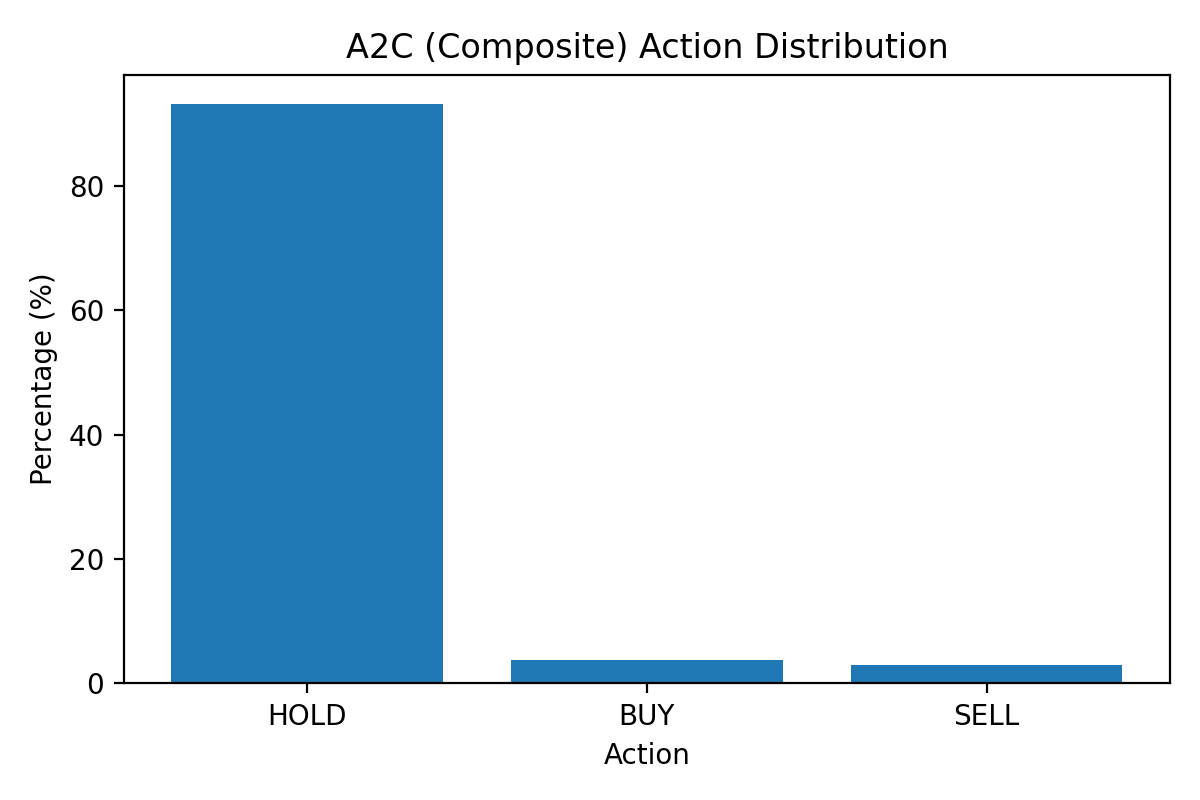
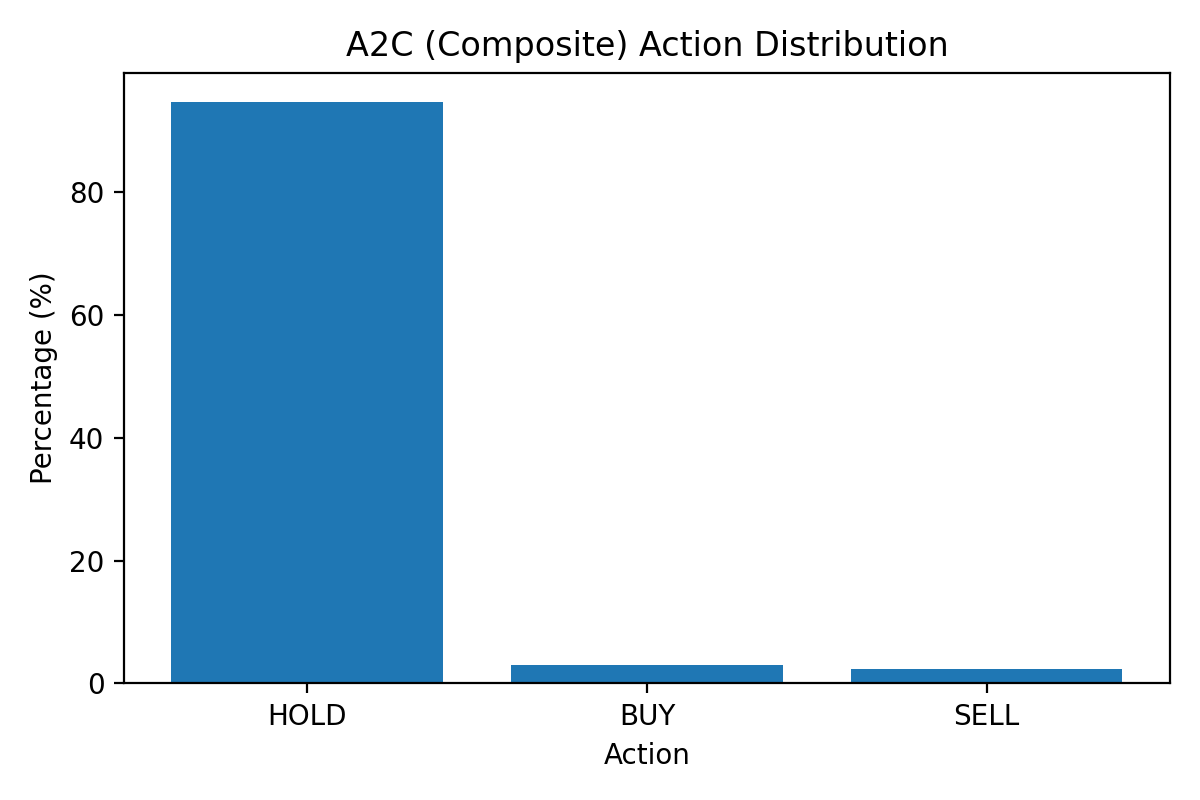
new non illegal

diff --git a/HouseRL.py b/HouseRL.py
@@ -29,6 +29,7 @@ PRICE_COL = "BenchmarkPrice"
 INITIAL_CASH = 1_000_000
 TRANSACTION_COST = 5_000
 HOLDING_COST_MONTHLY = 500
+INVALID_ACTION_PENALTY = 1.0
 
 # Q-learning
 EPISODES = 300
@@ -147,6 +148,26 @@ class HousingEnv:
         self.done = False
         return self._get_state()
 
+    def _current_price(self) -> float:
+        return float(self.df.iloc[self.idx][PRICE_COL])
+
+    def _portfolio_value(self, price: float) -> float:
+        return float(self.cash + (self.holding * price))
+
+    def _can_buy(self) -> bool:
+        return self.holding == 0 and self.cash >= self._current_price() + TRANSACTION_COST
+
+    def _can_sell(self) -> bool:
+        return self.holding == 1
+
+    def valid_actions(self):
+        actions = [2]  # HOLD always valid
+        if self._can_buy():
+            actions.append(0)
+        if self._can_sell():
+            actions.append(1)
+        return actions
+
     def _get_state(self):
         row = self.df.iloc[self.idx]
         return (
@@ -154,13 +175,9 @@ class HousingEnv:
             bucket_momentum(float(row["momentum_3"])),
             bucket_momentum(float(row["momentum_6"])),
             self.holding,
+            int(self._can_buy()),
+            int(self._can_sell()),
         )
-
-    def _current_price(self) -> float:
-        return float(self.df.iloc[self.idx][PRICE_COL])
-
-    def _portfolio_value(self, price: float) -> float:
-        return float(self.cash + (self.holding * price))
 
     def step(self, action: int):
         if self.done:
@@ -171,20 +188,20 @@ class HousingEnv:
         invalid_penalty = 0.0
 
         if action == 0:  # BUY
-            if self.holding == 0 and self.cash >= current_price + TRANSACTION_COST:
+            if self._can_buy():
                 self.cash -= (current_price + TRANSACTION_COST)
                 self.holding = 1
                 self.buy_price = current_price
             else:
-                invalid_penalty = -0.2  # ← was -2000.0
+                invalid_penalty = -INVALID_ACTION_PENALTY
 
         elif action == 1:  # SELL
-            if self.holding == 1:
+            if self._can_sell():
                 self.cash += (current_price - TRANSACTION_COST)
                 self.holding = 0
                 self.buy_price = 0.0
             else:
-                invalid_penalty = -0.2  # ← was -2000.0
+                invalid_penalty = -INVALID_ACTION_PENALTY
 
         elif action == 2:  # HOLD
             pass
@@ -202,6 +219,7 @@ class HousingEnv:
         reward = 100.0 * ((new_value - old_value) / max(old_value, 1.0)) + invalid_penalty
         next_state = self._get_state()
         return next_state, reward, self.done
+
 # ============================================================
 # Q-LEARNING AGENT
 # ============================================================
@@ -210,14 +228,28 @@ class QLearningAgent:
     def __init__(self):
         self.q_table = defaultdict(lambda: np.zeros(len(ACTIONS), dtype=np.float64))
 
-    def choose_action(self, state, epsilon: float) -> int:
+    def choose_action(self, state, epsilon: float, valid_actions):
         if random.random() < epsilon:
-            return random.choice(list(ACTIONS.keys()))
-        return int(np.argmax(self.q_table[state]))
+            return random.choice(valid_actions)
 
-    def update(self, state, action: int, reward: float, next_state):
-        best_next = np.max(self.q_table[next_state])
-        td_target = reward + GAMMA * best_next
+        q_values = self.q_table[state]
+        best_action = valid_actions[0]
+        best_value = q_values[best_action]
+
+        for action in valid_actions[1:]:
+            if q_values[action] > best_value:
+                best_value = q_values[action]
+                best_action = action
+
+        return int(best_action)
+
+    def update(self, state, action: int, reward: float, next_state, next_valid_actions, done: bool):
+        if done:
+            td_target = reward
+        else:
+            best_next = max(self.q_table[next_state][a] for a in next_valid_actions)
+            td_target = reward + GAMMA * best_next
+
         td_error = td_target - self.q_table[state][action]
         self.q_table[state][action] += ALPHA * td_error
 
@@ -234,9 +266,14 @@ def train_q_learning(df: pd.DataFrame, selected_area: str, selected_type: str):
         total_reward = 0.0
 
         while not done:
-            action = agent.choose_action(state, epsilon)
+            valid_actions = env.valid_actions()
+            action = agent.choose_action(state, epsilon, valid_actions)
+
             next_state, reward, done = env.step(action)
-            agent.update(state, action, reward, next_state)
+            next_valid_actions = env.valid_actions() if not done else [2]
+
+            agent.update(state, action, reward, next_state, next_valid_actions, done)
+
             state = next_state
             total_reward += reward
 
@@ -260,20 +297,29 @@ def evaluate_q_learning(agent: QLearningAgent, df: pd.DataFrame, selected_area: 
         action = int(np.argmax(agent.q_table[state]))
         action_name = ACTIONS[action]
 
-        action_counts[action_name] += 1
+        valid_action = (
+            (action == 0 and env.holding == 0 and env.cash >= env._current_price() + TRANSACTION_COST) or
+            (action == 1 and env.holding == 1) or
+            (action == 2)
+        )
 
         next_state, reward, done = env.step(action)
         state = next_state
 
+        if valid_action:
+            action_counts[action_name] += 1
+            logged_action = action_name
+        else:
+            logged_action = f"INVALID_{action_name}"
+
         dates.append(env.df.iloc[env.idx][DATE_COL])
         values.append(env._portfolio_value(env._current_price()))
-        actions.append(action_name)
+        actions.append(logged_action)
 
-    # Convert to %
     total = sum(action_counts.values())
-    action_percent = {k: (v / total) * 100 for k, v in action_counts.items()}
+    action_percent = {k: (v / total) * 100 for k, v in action_counts.items()} if total > 0 else {k: 0.0 for k in action_counts}
 
-    print("\nQ-Learning Action Distribution:")
+    print("\nQ-Learning Action Distribution (valid only):")
     print(action_counts)
     print({k: f"{v:.2f}%" for k, v in action_percent.items()})
 
@@ -305,11 +351,11 @@ class HousingGymEnv(gym.Env):
         self.action_space = spaces.Discrete(3)
 
         # [return_1m, momentum_3, momentum_6, yoy_change, price_rel,
-        #  holding, cash_ratio, unrealized_pnl]
+        #  holding, cash_ratio, unrealized_pnl, can_buy, can_sell]
         self.observation_space = spaces.Box(
             low=-10.0,
             high=10.0,
-            shape=(8,),
+            shape=(10,),
             dtype=np.float32,
         )
 
@@ -348,6 +394,8 @@ class HousingGymEnv(gym.Env):
             float(self.holding),
             float(np.clip(self.cash / INITIAL_CASH, 0.0, 5.0)),
             float(np.clip(unrealized, -1.0, 1.0)),
+            float(self._can_buy()),
+            float(self._can_sell()),
         ], dtype=np.float32)
 
         return obs
@@ -372,7 +420,7 @@ class HousingGymEnv(gym.Env):
                 self.holding = 1
                 self.buy_price = current_price
             else:
-                invalid_penalty = -0.2
+                invalid_penalty = -INVALID_ACTION_PENALTY
 
         elif action == 1:  # SELL
             if self._can_sell():
@@ -380,7 +428,7 @@ class HousingGymEnv(gym.Env):
                 self.holding = 0
                 self.buy_price = 0.0
             else:
-                invalid_penalty = -0.2
+                invalid_penalty = -INVALID_ACTION_PENALTY
 
         elif action == 2:  # HOLD
             pass
@@ -397,6 +445,10 @@ class HousingGymEnv(gym.Env):
 
         reward = 100.0 * ((new_value - old_value) / max(old_value, 1.0))
         reward += invalid_penalty
+
+        if terminated:
+            zero_obs = np.zeros(self.observation_space.shape, dtype=np.float32)
+            return zero_obs, float(reward), terminated, truncated, {}
 
         return self._get_obs(), float(reward), terminated, truncated, {}
 
@@ -473,17 +525,15 @@ def evaluate_policy_model(model, vec_norm: VecNormalize, df: pd.DataFrame, selec
         action_int = int(action[0])
         action_name = ACTIONS[action_int]
 
-        # Check validity BEFORE stepping
         valid_action = (
             (action_int == 0 and raw_env._can_buy()) or
             (action_int == 1 and raw_env._can_sell()) or
-            (action_int == 2)  # HOLD always valid
+            (action_int == 2)
         )
 
         obs, reward, terminated, truncated, _ = raw_env.step(action_int)
         done = terminated or truncated
 
-        # Only count valid actions
         if valid_action:
             action_counts[action_name] += 1
 
@@ -492,7 +542,10 @@ def evaluate_policy_model(model, vec_norm: VecNormalize, df: pd.DataFrame, selec
         actions.append(action_name if valid_action else f"INVALID_{action_name}")
 
     total = sum(action_counts.values())
-    action_percent = {k: (v / total) * 100 for k, v in action_counts.items()} if total > 0 else {k: 0.0 for k in action_counts}
+    if total > 0:
+        action_percent = {k: (v / total) * 100 for k, v in action_counts.items()}
+    else:
+        action_percent = {k: 0.0 for k in action_counts}
 
     print(f"\n{label} Action Distribution (valid only):")
     print(action_counts)
@@ -566,23 +619,34 @@ def plot_final_comparison(
     plt.savefig("final_comparison.png", dpi=200)
     plt.show()
 
-# ============================================================
-# MAIN
-# ============================================================
-
 def plot_with_actions(df: pd.DataFrame, title: str, filename: str):
     plt.figure(figsize=(11, 6))
 
-    # Line plot
     plt.plot(df["Date"], df["PortfolioValue"], label=title)
 
-    # Filter actions
     buy_points = df[df["Action"] == "BUY"]
     sell_points = df[df["Action"] == "SELL"]
+    invalid_buy_points = df[df["Action"] == "INVALID_BUY"]
+    invalid_sell_points = df[df["Action"] == "INVALID_SELL"]
 
-    # Scatter markers
     plt.scatter(buy_points["Date"], buy_points["PortfolioValue"], marker="^", label="BUY")
     plt.scatter(sell_points["Date"], sell_points["PortfolioValue"], marker="v", label="SELL")
+
+    if not invalid_buy_points.empty:
+        plt.scatter(
+            invalid_buy_points["Date"],
+            invalid_buy_points["PortfolioValue"],
+            marker="x",
+            label="INVALID_BUY"
+        )
+
+    if not invalid_sell_points.empty:
+        plt.scatter(
+            invalid_sell_points["Date"],
+            invalid_sell_points["PortfolioValue"],
+            marker="x",
+            label="INVALID_SELL"
+        )
 
     plt.title(title)
     plt.xlabel("Date")
@@ -596,12 +660,11 @@ def plot_with_actions(df: pd.DataFrame, title: str, filename: str):
 def plot_action_distribution(df: pd.DataFrame, title: str, filename: str):
     action_counts = df["Action"].value_counts()
 
-    # Remove START if present
     if "START" in action_counts:
         action_counts = action_counts.drop("START")
 
     total = action_counts.sum()
-    percentages = (action_counts / total) * 100
+    percentages = (action_counts / total) * 100 if total > 0 else action_counts.astype(float)
 
     plt.figure(figsize=(6, 4))
     plt.bar(percentages.index, percentages.values)
@@ -614,6 +677,9 @@ def plot_action_distribution(df: pd.DataFrame, title: str, filename: str):
     plt.savefig(filename, dpi=200)
     plt.show()
 
+# ============================================================
+# MAIN
+# ============================================================
 
 if __name__ == "__main__":
     df = load_data(CSV_PATH)
@@ -643,14 +709,8 @@ if __name__ == "__main__":
         print(f"A2C:          ${a2c_eval['PortfolioValue'].iloc[-1]:,.2f}")
         print(f"Buy-and-Hold: ${bh_eval['PortfolioValue'].iloc[-1]:,.2f}")
 
-        # =========================
-        # PLOT PORTFOLIO COMPARISON
-        # =========================
         plot_final_comparison(q_eval, ppo_eval, a2c_eval, bh_eval, area, property_type)
 
-        # =========================
-        # ACTION VISUALIZATIONS
-        # =========================
         plot_with_actions(q_eval, f"Q-Learning Actions: {property_type}", f"q_actions_{property_type}.png")
         plot_with_actions(ppo_eval, f"PPO Actions: {property_type}", f"ppo_actions_{property_type}.png")
         plot_with_actions(a2c_eval, f"A2C Actions: {property_type}", f"a2c_actions_{property_type}.png")
